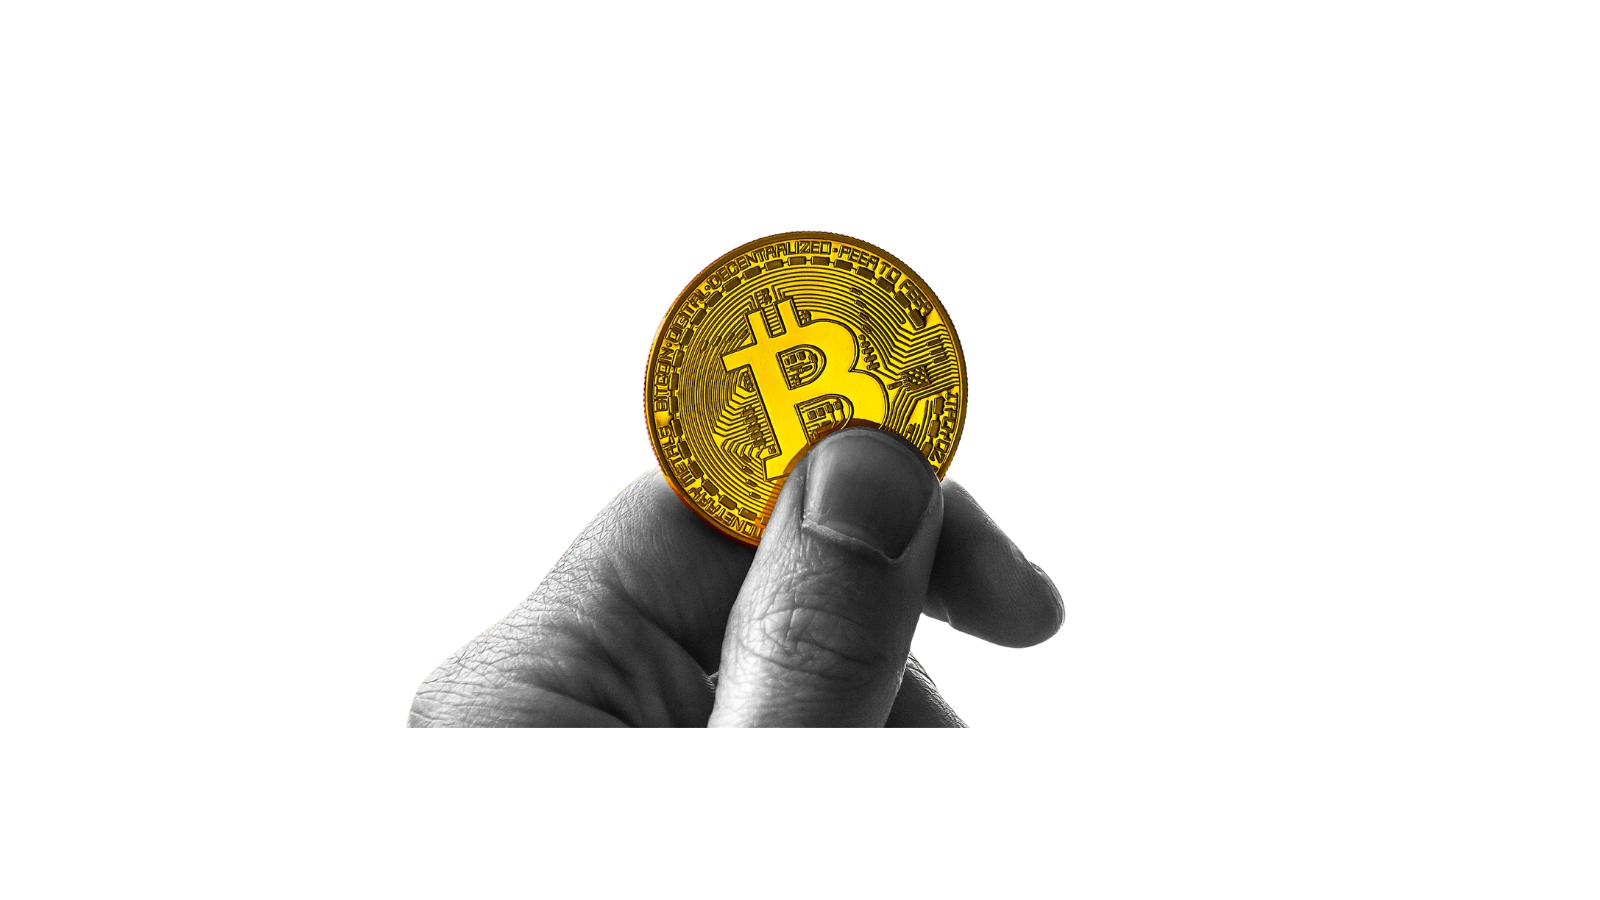
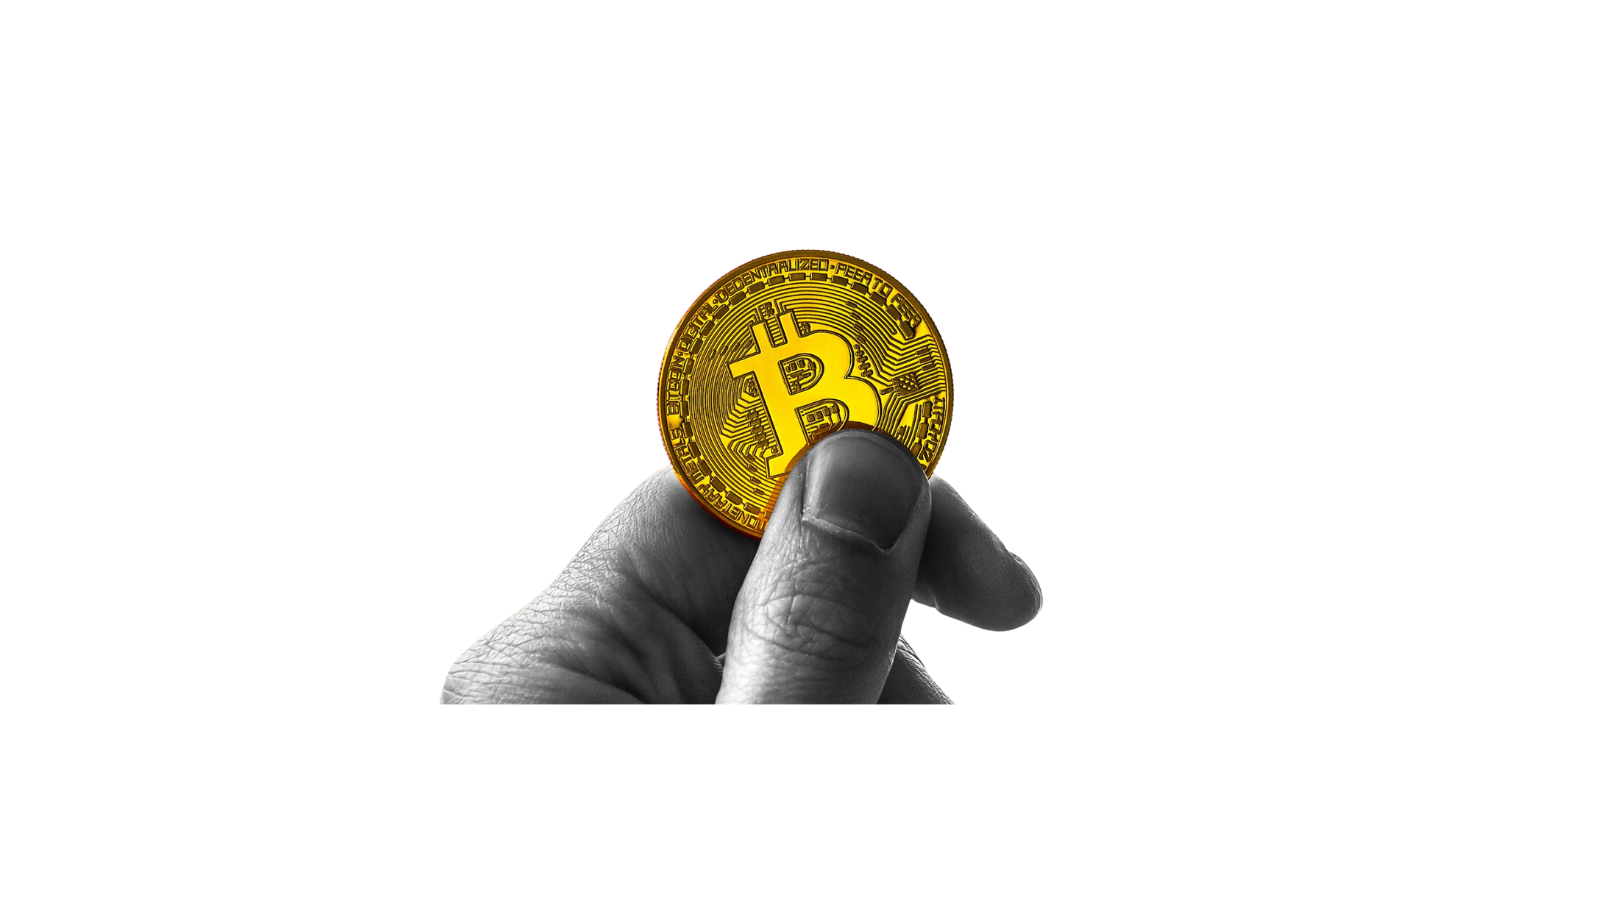
Landing page: collage layout with 4 images, parallax depth layers

Changed region(s): [[0.25, 0.2489, 0.6875, 0.8089]]

diff --git a/apps/web/src/app/page.tsx b/apps/web/src/app/page.tsx
@@ -46,7 +46,7 @@ const TICKER_ITEMS = [
 ];
 
 function Ticker() {
-  const items = [...TICKER_ITEMS, ...TICKER_ITEMS]; // duplicate for seamless loop
+  const items = [...TICKER_ITEMS, ...TICKER_ITEMS];
   return (
     <div className="absolute top-0 left-0 right-0 z-30 border-b border-black/8 bg-white/60 backdrop-blur-sm overflow-hidden">
       <div
@@ -64,7 +64,6 @@ function Ticker() {
     </div>
   );
 }
-
 
 export default function Home() {
   const { login, authenticated, ready } = usePrivy();
@@ -87,6 +86,9 @@ export default function Home() {
     });
   }, []);
 
+  const blend = { mixBlendMode: 'multiply' as const };
+  const ease = { transition: 'transform 0.15s ease-out' };
+
   return (
     <main
       ref={containerRef}
@@ -99,39 +101,84 @@ export default function Home() {
         fontFamily: "'IBM Plex Mono', 'Courier New', monospace",
       }}
     >
-      {/* Scrolling ticker */}
       <Ticker />
 
+      {/* ── LEFT SIDE ── */}
 
-      {/* Michael Saylor cutout — right side */}
+      {/* Saylor colour — large portrait, bottom-left */}
       <img
-        src="/saylor.png"
+        src="/saylor-colour.png"
         alt="Michael Saylor"
-        className="absolute right-0 bottom-0 h-[88vh] object-contain object-bottom select-none pointer-events-none"
+        className="absolute bottom-0 object-contain object-bottom select-none pointer-events-none"
         style={{
-          filter: 'drop-shadow(-12px 0 40px rgba(0,0,0,0.10))',
-          transform: `translate(${parallax.x * 12}px, ${parallax.y * 6}px)`,
-          transition: 'transform 0.15s ease-out',
+          left: '-2%',
+          height: '88vh',
+          zIndex: 6,
+          ...blend,
+          transform: `translate(${parallax.x * 10}px, ${parallax.y * 5}px)`,
+          ...ease,
         }}
         onError={(e) => { (e.target as HTMLImageElement).style.display = 'none'; }}
       />
 
-      {/* Bitcoin hand — left side */}
+      {/* Bitcoin hand — mid-left, overlaps Saylor */}
       <img
         src="/bitcoin-hand.png"
         alt=""
         aria-hidden="true"
-        className="absolute -left-[12%] bottom-0 h-[72vh] object-contain object-bottom select-none pointer-events-none"
+        className="absolute select-none pointer-events-none"
         style={{
-          mixBlendMode: 'multiply',
-          transform: `translate(${parallax.x * -16}px, ${parallax.y * 8}px)`,
-          transition: 'transform 0.15s ease-out',
+          left: '14%',
+          bottom: '18%',
+          height: '32vh',
+          zIndex: 10,
+          ...blend,
+          transform: `translate(${parallax.x * -18}px, ${parallax.y * 10}px)`,
+          ...ease,
         }}
+        onError={(e) => { (e.target as HTMLImageElement).style.display = 'none'; }}
       />
 
+      {/* ── RIGHT SIDE ── */}
 
-      {/* Central card */}
-      <div className="relative z-10 flex flex-col items-center text-center px-6 max-w-[480px]">
+      {/* $100 bill — floating mid-right, slight tilt */}
+      <img
+        src="/hundred-dollar.png"
+        alt=""
+        aria-hidden="true"
+        className="absolute select-none pointer-events-none"
+        style={{
+          right: '4%',
+          top: '28%',
+          width: '30vw',
+          maxWidth: '420px',
+          zIndex: 6,
+          ...blend,
+          transform: `translate(${parallax.x * 20}px, ${parallax.y * -12}px) rotate(-4deg)`,
+          ...ease,
+          filter: 'drop-shadow(0 8px 24px rgba(0,0,0,0.10))',
+        }}
+        onError={(e) => { (e.target as HTMLImageElement).style.display = 'none'; }}
+      />
+
+      {/* Saylor B&W — bottom-right, overlaps $100 bill */}
+      <img
+        src="/saylor-bw.png"
+        alt="Michael Saylor"
+        className="absolute bottom-0 object-contain object-bottom select-none pointer-events-none"
+        style={{
+          right: '-2%',
+          height: '70vh',
+          zIndex: 10,
+          ...blend,
+          transform: `translate(${parallax.x * 8}px, ${parallax.y * 4}px)`,
+          ...ease,
+        }}
+        onError={(e) => { (e.target as HTMLImageElement).style.display = 'none'; }}
+      />
+
+      {/* ── CENTRAL CONTENT ── */}
+      <div className="relative flex flex-col items-center text-center px-6 max-w-[480px]" style={{ zIndex: 20 }}>
 
         {/* Spreads logo */}
         <div className="flex items-center gap-2 mb-8">
@@ -142,10 +189,8 @@ export default function Home() {
           <span className="text-sm font-semibold tracking-widest uppercase">Spreads</span>
         </div>
 
-        {/* Animated APY counter */}
         <AprCounter />
 
-        {/* Headline */}
         <h1 className="text-[3.8rem] font-bold tracking-tight leading-[1.05] mb-5">
           <span style={{ color: '#e05c00' }}>Stretch</span> Your Yield
         </h1>
@@ -154,7 +199,6 @@ export default function Home() {
           Turn your STRC dividend into up to 5× more — automatically.
         </p>
 
-        {/* CTA */}
         <button
           onClick={login}
           disabled={!ready}
@@ -166,7 +210,7 @@ export default function Home() {
       </div>
 
       {/* Bottom bar */}
-      <div className="absolute bottom-0 left-0 right-0 border-t border-gray-200 bg-white/70 backdrop-blur-sm px-8 py-3 flex items-center justify-between z-20">
+      <div className="absolute bottom-0 left-0 right-0 border-t border-gray-200 bg-white/70 backdrop-blur-sm px-8 py-3 flex items-center justify-between" style={{ zIndex: 30 }}>
         <div className="flex items-center gap-6 text-[10px] text-gray-400 tracking-widest uppercase">
           <a href="https://x.com/spreads_fi" target="_blank" rel="noopener noreferrer" className="hover:text-gray-700 transition-colors">X</a>
           <a href="https://t.me/spreads_fi" target="_blank" rel="noopener noreferrer" className="hover:text-gray-700 transition-colors">Telegram</a>
